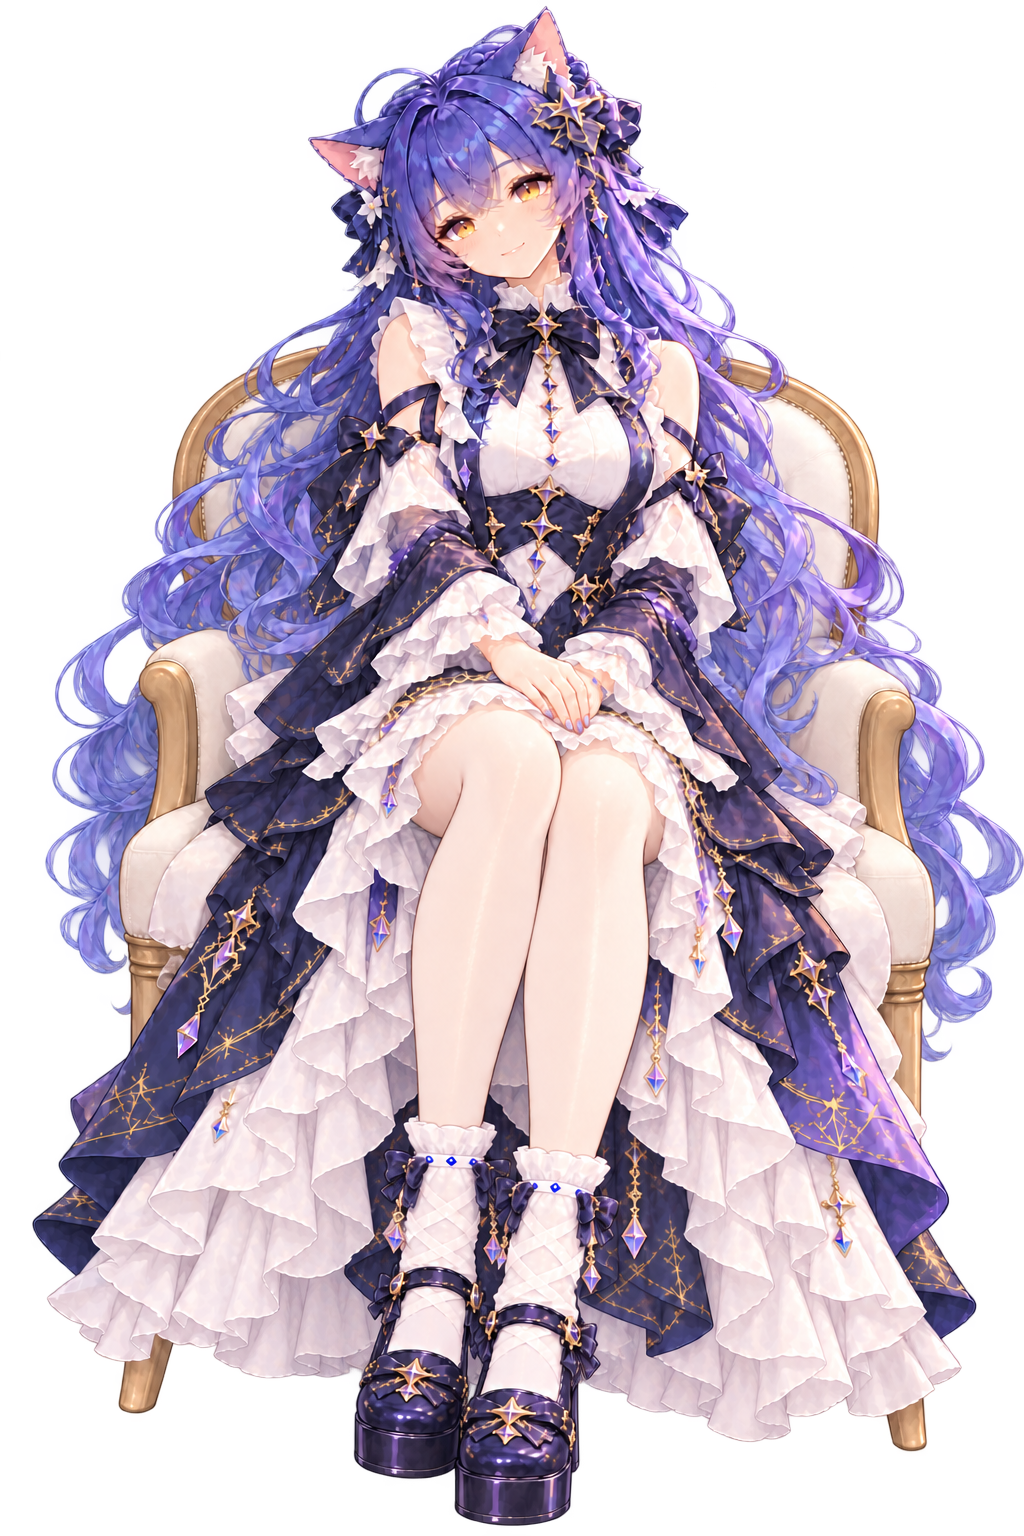
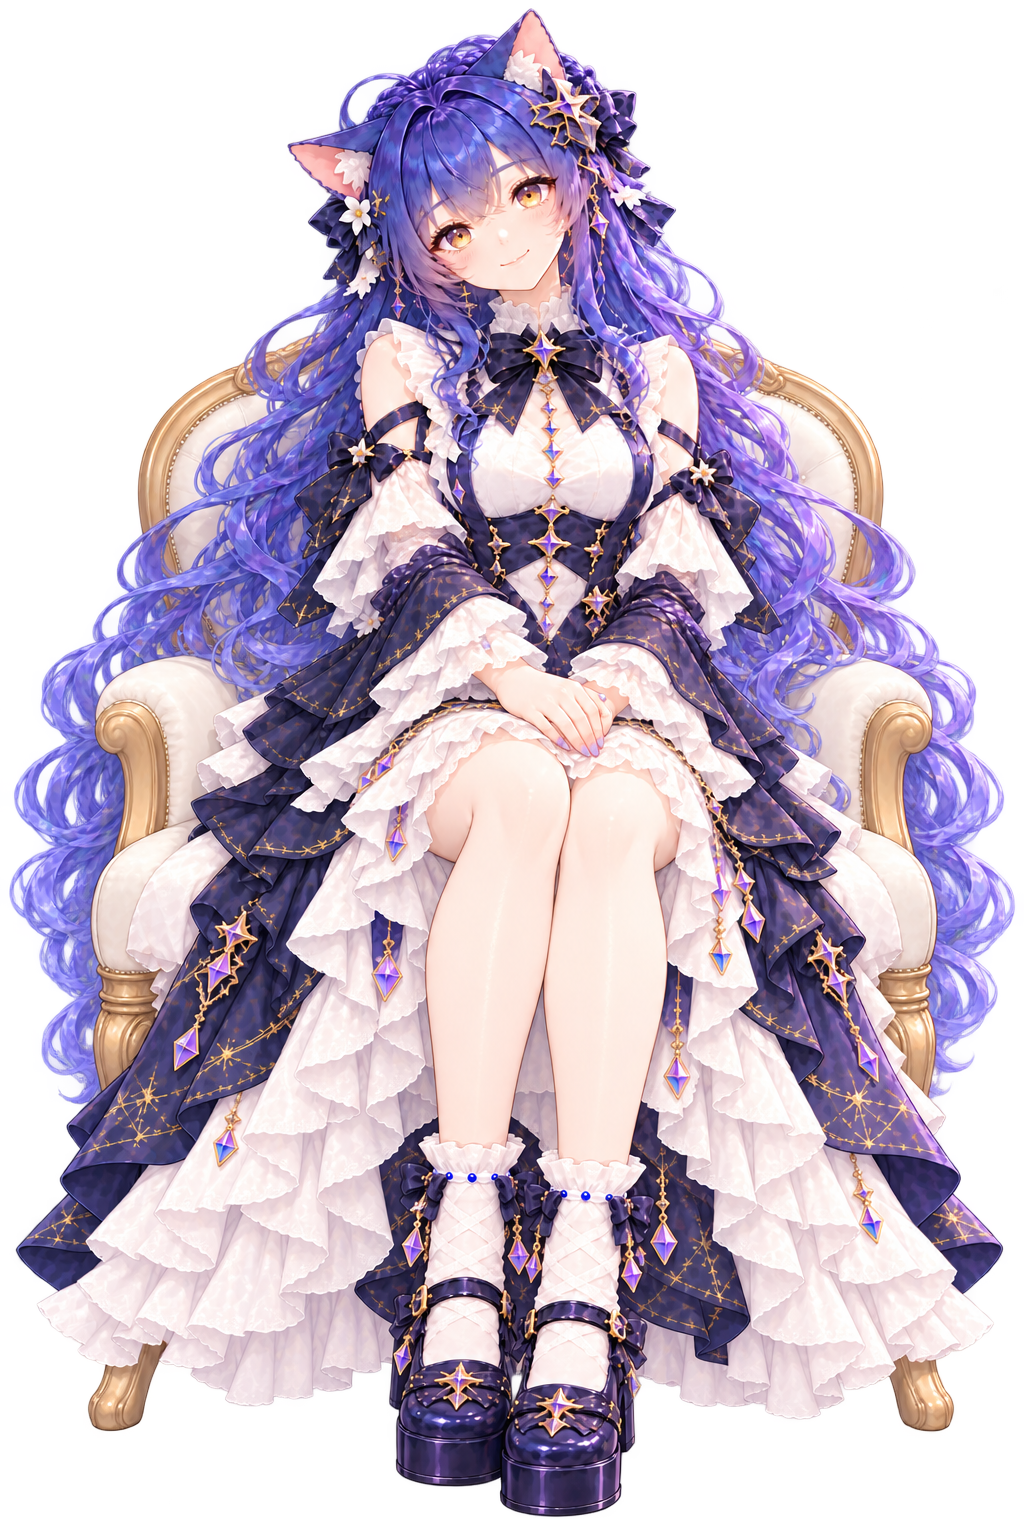
feat(design): 采用Gemini全套角色资源与生成配置

diff --git a/docs/design/29-Gemini角色生成提示词.md b/docs/design/29-Gemini角色生成提示词.md
@@ -1,0 +1,36 @@
+---
+类型: 设计
+状态: 草案
+版本: 0.1
+更新: 2026-10-26
+---
+
+# 29 Gemini角色生成提示词
+
+## 01 T-105 制作范围
+
+用户要求继续Gemini形象设计，先交三视图及设定卡候选。身份依据[设计20](20-人物三视图视觉设定.md)与[设计24第05节](24-七位角色背景与人设.md#05-gemini--追着新可能奔跑的猫耳探索者)，保留成年蓝紫长卷发、一对猫耳、琥珀双瞳、金色星饰、蓝紫珍珠白层叠礼服、白色菱格褶边短袜与蓝紫厚底粗跟扣带鞋。异色瞳、双尾、折叠星图及魔法物件未确认，不加入本批。
+
+## 02 Skill与系列设计
+
+新增独立[Gemini配置](../../backend/app/skills/profiles/gemini.json)，复用character-turnaround与character-card，不新增运行接口。表情区分好奇、惊喜、明朗灵感与认真推敲；动作采用食指提示与前倾抬掌分享，避免套用其他角色的统一浅笑。
+
+三视图沿用T-101大幅右侧正脸半身特写，占比匹配用户给定DeepSeek参考，发梢和衣饰下缘柔和渐隐。左边正／侧／背三站姿完整保留，旧Gemini卡仅供服饰与背面结构参考。设定卡采用DeepSeek系列小衬线标题、左主坐姿、右上四表情、中部手与两动作、底部座椅／星饰／双鞋细节。蓝紫配色与星形胸饰不得被DeepSeek蓝宝石配件替代。
+
+## 03 执行与验证
+
+内置imagegen共4次：三视图首稿、卡片首稿、三视图右侧构图整理、胸饰特写修正。当前最终候选为output/character-design/t105-gemini/gemini-turnaround.png、gemini-card.png，两张均1536×1024 RGB白底。首稿仅留追溯；实际提示词、输入副本、prepare快照、每次引用及SHA-256见同目录manifest.json。
+
+Pydantic配置加载和两类prepare通过；图片实际读取尺寸／通道与目视检查完成。右侧仍保留大幅半身占比，胸饰已由首稿错误椭圆蓝宝石修正为金色四芒星与紫色菱形晶石链。编辑不声明区域外逐像素不变。复杂星链、鞋扣和椅雕仍有微细生成差异，三视图未做严格正投影／三维一致性验收，边缘留白偏紧，候选待视觉评审。
+
+后端只准备任务，实际系列参考由聊天工具传入；API没有style参考字段，也未执行LibTV私有Skill。未替换frontend、修改页面、生成五种独立坐姿或提交推送。后续独立图仍须真实alpha透明；卡片特写不冒充已导出的独立素材。
+
+## 04 T-107 五种独立透明状态（2026-10-26）
+
+用户要求继续五种状态图。复用坐姿Skill与Gemini配置，先生成自然陪伴作为连续性基准，后四张追加其作为身份／尺度参考。natural为并膝叠手浅笑，listening为前倾分手放膝与好奇专注，casual为交叠腿抬掌分享，playful为侧斜双腿轻抬食指的灵感回应，thinking为托腮凝思。沿用琥珀双瞳与金色星形胸饰，不新增尾巴、异色瞳或手持道具。
+
+五次内置imagegen，全部transparent_background=true。输出位于output/character-design/t106-gemini-poses/gemini-{natural,listening,casual,playful,thinking}.png，实际提示词、prepare、参考卡与manifest同目录。均1024×1536 RGBA，alpha0—254，四角全透明。原图目视完成；猫耳、发丝、宽裙边及鞋底余量偏紧，思考图肘部支撑部分被宽袖遮挡，微细星链／鞋扣／椅雕有差异，深浅底浏览器效果未验收。当前候选未替换frontend或提交推送。
+
+## 05 T-108 正式资源采用
+
+用户明确采用最新图并提交main推送。三视图、设定卡及五张状态图进入frontend/public/characters；现用三姿态映射natural／casual／playful，listening／thinking为备用。T-107原为并行撞号的T-106，现统一任务与验收编号，原始output/t106-gemini-poses路径保留作证据。正式采用记录见素材记录02第38节。

diff --git a/docs/design/02-五位角色素材生成记录.md b/docs/design/02-五位角色素材生成记录.md
@@ -142,3 +142,29 @@ T-091当时选定候选为output/character-design/t091-deepseek-card/deepseek-ca
 用户授权采用并提交推送。Grok／Claude各7个正式文件：01-natural、02-crossed、03-leaning分别替换natural、casual、playful；stage新增listening／thinking备用；cards采用最新卡，turnarounds新增最新三视图。DeepSeek现用stage已于T-096采用新版，本次将五个旧目录01-natural／02-crossed／03-leaning／04-forward／05-side-rest同步为natural／casual／playful／listening／thinking，避免历史入口残留。
 
 共19个正式资源与来源字节及HTTP响应哈希一致，清单在output/character-design/t103-resource-update/manifest.json。当前页面仍三姿态，未修改frontend/src。桌面验收Claude与Grok三态切换、浅底主图及暗底侧斜图透明效果；DeepSeek默认新图确认。截图claude-dark.png、deepseek-light.png同目录。未复验移动端、备用图页面入口或视频驱动。
+
+## 36 T-105 Gemini三视图与设定卡（2026-10-26）
+
+共4次内置imagegen：两首稿、三视图右侧构图整理、卡片星形胸饰修正。最终output/character-design/t105-gemini/gemini-turnaround.png与gemini-card.png均1536×1024 RGB白底。前者SHA-256为4a05d8fef9a779e9cad9ef465a923b8fb269ded480467be785c0c31f9e598a47，后者为a75bfd0ef4760f3d1781d50a9233461549bd341a7e611454418e377aabc5d996。
+
+实际提示词、参考副本、prepare及manifest同目录。原图目视确认身份、版式及最终星饰，背面沿用旧卡线索保守推导；微细星链／鞋扣／椅雕与严格正投影一致性未验收，边缘余量偏紧。候选未覆盖frontend，未制作五坐姿，见[设计29](29-Gemini角色生成提示词.md)。
+
+## 37 T-107 Gemini五种透明状态（2026-10-26）
+
+五次内置imagegen，各生成一张；自然图引用T-105卡，其余四图追加自然图作为连续性基准。输出和逐张提示词／prepare／SHA-256清单保存于output/character-design/t106-gemini-poses。全部1024×1536 RGBA，alpha0—254、四角透明。
+
+| 状态 | 完全透明像素 | alpha≥250像素 | 最外沿最大alpha |
+|---|---:|---:|---:|
+| natural | 500743 | 966189 | 4 |
+| listening | 489129 | 995860 | 8 |
+| casual | 499388 | 983837 | 10 |
+| playful | 478400 | 995417 | 9 |
+| thinking | 507031 | 965603 | 1 |
+
+原图目视表情动作、手脚及裙衬结构。猫耳／发丝／裙摆／鞋底留白较紧，思考图肘部支撑部分被袖子遮挡，细部饰件存在生成差异；未做深浅底浏览器验收，未替换frontend。见[设计29第04节](29-Gemini角色生成提示词.md#04-t-107-五种独立透明状态2026-10-26)。
+
+## 38 T-108 Gemini正式资源替换（2026-10-26）
+
+用户明确采用最新资源。01-natural／02-crossed／03-leaning分别更新为natural／casual／playful；stage新增gemini-listening与gemini-thinking备用；cards更新，turnarounds新增。7张正式PNG与源文件及HTTP响应SHA-256一致。清单与桌面深浅色截图在output/character-design/t108-gemini-adoption。
+
+前端页面代码无改动，生产构建通过；实际浏览器检查三姿态切换、暗色自然／交叠与浅色侧斜图，透明边缘无矩形底，控制台无warn／error。未重验移动端和两备用图的页面显示。Gemini五状态任务与并行Figma的T-106撞号，现更正为T-107，原始output目录保留。

diff --git a/docs/plan/09-网页PoC逐功能实现与验收计划.md b/docs/plan/09-网页PoC逐功能实现与验收计划.md
@@ -534,3 +534,21 @@ FR-001 → 素材记录02第35节 → AC-048 → T-103／TC-103。Grok／Claude1
 前端生产构建通过（含TypeScript）；后端Ruff、格式、mypy和39项pytest通过。浏览器确认Claude／Grok各三姿态、浅底及暗底侧斜合成、DeepSeek默认新版；控制台warn／error为空。项目3000本地生产预览已重启并清理可再生Next图片缓存；验证时本页临时禁用缓存，完成后恢复。未覆盖手机与备用图页面入口。截图及manifest见t103-resource-update。
 
 提交范围含T-100—103角色配置、共用Skill及设计记录、19个正式图片；历史需求v0.9文档的工作区删除与本任务无关，排除且保持原状。用户明确授权main提交与推送，具体SHA以Git回执为准。
+
+## 23 T-105 Gemini角色设计（2026-10-26）
+
+FR-001 → 设计29 → AC-049 → T-105／TC-105。复用三视图及卡片Skill，独立Gemini配置经Pydantic加载与两种prepare通过。内置imagegen调用4次；最终两PNG实际读取通过，1536×1024 RGB，SHA-256与引用关系保存于t105-gemini/manifest.json。
+
+TC-105：目视检查三站姿、右侧大幅特写与卡面四表情／两动作／道具细节；首稿误用的蓝宝石胸饰已修正为金色星形与紫色菱形晶石链。未做严格三维一致性或逐像素区域保持验收，未改前端或接口逻辑，不重复应用测试；git diff --check通过。未生成透明五坐姿、提交或推送；并行T-104文档与历史需求删除保持。
+
+## 24 T-107 Gemini五种透明状态（2026-10-26）
+
+FR-001 → 设计29第04节 → AC-050 → T-107／TC-107。五种prepare均通过，内置imagegen生成5次；backend仍仅准备任务。实际PNG读取确认1024×1536 RGBA、alpha0—254、四角透明，透明／近不透明计数及SHA-256见素材记录02第37节和t106-gemini-poses/manifest.json。
+
+原图目视确认五种状态可区分，保留角色识别与星饰；边缘余量偏紧、思考支肘部分被袖遮挡、细饰一致性仍待评审。未验收深浅底浏览器合成，未改页面／正式资源／业务代码，不重复应用测试；git diff --check通过，未提交推送。并行改动保持。
+
+## 25 T-108 Gemini正式采用与提交（2026-10-26）
+
+FR-001 → 设计29第05节 → AC-051 → T-108／TC-108。7张PNG复制后哈希与源图一致，真实HTTP均200且内容哈希一致。npm run build通过；Gemini配置Pydantic加载通过，后端39项pytest通过。未改运行代码，不重复无关功能测试。
+
+桌面Chrome检查三姿态、暗色自然／交叠与浅色侧斜透明效果，控制台warn／error为空；截图与manifest在output/character-design/t108-gemini-adoption。本机3000生产预览重启并刷新Next图片缓存；临时浏览器缓存设置已恢复。未重验移动端，两备用姿态无页面入口。frontend/src无差异，Figma并行修改与历史需求删除排除本批提交。

diff --git a/docs/prd/01-网页数字人PoC产品与验收标准.md b/docs/prd/01-网页数字人PoC产品与验收标准.md
@@ -238,3 +238,9 @@ T-100／AC-045：Claude三视图与设定卡保留铜橙发、细框眼镜、向
 T-102／AC-047：Claude五种独立坐姿可区分，身份、服装及座椅延续当前设定卡；每张1024×1536真实alpha PNG，检查人物完整性、腿部遮挡和鞋履结构，逐张保留提示词、参考与透明数据。原图目视与深浅底浏览器验收分别记录，不自动替换正式资源。
 
 T-103／AC-048：Grok、Claude正式资源与最新候选逐字节一致；旧natural／crossed／leaning对应新natural／casual／playful，两种备用动作入库但不新增控件。DeepSeek旧五姿态路径同步现用stage资源；页面源码保持，静态HTTP可访问且哈希一致，桌面实际检查切换与透明合成。
+
+T-105／AC-049：Gemini三视图及设定卡与系列样式一致，右侧特写保持DeepSeek基准占比；猫耳、琥珀双瞳、蓝紫星饰衣鞋同款。卡面包含四种差异化表情、动作及已有座椅／配饰／鞋履特写，配饰不混入其他角色识别物；输出白底候选，独立素材仍须另生成透明图。
+
+T-107／AC-050：交付Gemini自然陪伴、认真倾听、轻松闲聊、灵感回应与托腮思考五张独立透明图，身份／衣饰／座椅一致，状态可区分；真实PNG alpha可检测，逐张保存提示词和验证边界。微细结构与浏览器合成须分别记录，生成不等于正式资源采用。
+
+T-108／AC-051：正式Gemini资源与选定源文件一致；现有三姿态可切换且桌面深浅底无不透明背景，两额外状态独立保存，不扩展页面入口；白底卡片和三视图单独保存，提交不包含无关工作。

diff --git a/docs/requirement/02-角色形象素材.md b/docs/requirement/02-角色形象素材.md
@@ -71,3 +71,9 @@ T-100用户要求在前批提交推送后继续Claude设计，保留既有角色
 T-102用户要求继续Claude五种独立形象图，沿用最新卡片、现有五动作Skill及透明背景规则。保留铜橙发、细框眼镜、向日葵和象牙白深棕礼服；playful按Claude人设表现为克制会心提示，不改变通用动作分类。交付候选，正式资源替换另按用户指令。
 
 T-103用户要求采用最新形象替换历史资源并提交main推送，随后明确核对DeepSeek。Grok／Claude三种现用姿态沿用旧路径，另保存倾听／思考备用及设定卡／三视图；DeepSeek现用stage已是新版，本次同步其五个旧姿态路径，避免旧入口继续返回历史图。不扩展页面或控件。
+
+T-105用户要求继续Gemini形象设计，先交同系列三视图与设定卡候选；保留蓝紫长卷发、一对猫耳、琥珀双瞳、星饰礼服和菱格短袜鞋履，表演突出好奇与灵感。不得新增异色瞳、尾巴或未经确认星图道具。制作见设计29，不自动替换现用资源。
+
+T-107用户明确继续Gemini五种状态，采用现有五动作Skill和T-105最终设定卡，分别生成单人单椅的透明PNG。保留Gemini好奇灵动的人设，playful对应灵感回应；不得以五格拼版代替五张独立图。候选不自动覆盖正式资源。
+
+T-108用户明确采用Gemini最新三视图、设定卡及五状态资源，要求提交main并推送，再开始ChatGPT设计；资源替换保持现有页面和三姿态入口。T-107修正原Gemini五状态记录与并行Figma的T-106编号冲突，原始证据路径不变。

diff --git a/backend/README.md b/backend/README.md
@@ -10,6 +10,7 @@
 - [DeepSeek配置](app/skills/profiles/deepseek.json)：角色身份、衣饰、道具和表演独立于Skill。其他角色可提交自定义配置，支持anime、photorealistic、illustration。
 - [Grok配置](app/skills/profiles/grok.json)：金发双马尾、黑红金礼服与机智活泼表演；T-097制作输入，可作为prepare的character提交，未新增Grok查询端点。
 - [Claude配置](app/skills/profiles/claude.json)：铜橙长发、细框眼镜、向日葵与象牙白深棕礼服；T-100制作输入，复用通用prepare。
+- [Gemini配置](app/skills/profiles/gemini.json)：蓝紫长发、猫耳、琥珀双瞳和金色星饰；T-105三视图与设定卡输入，复用通用prepare。
 
 T-101统一三视图右侧大幅半身特写，占比匹配DeepSeek基准；使用自然轮廓与柔边改善方块感，不缩成小头像。具体比例与验收以character-turnaround为准。
 
